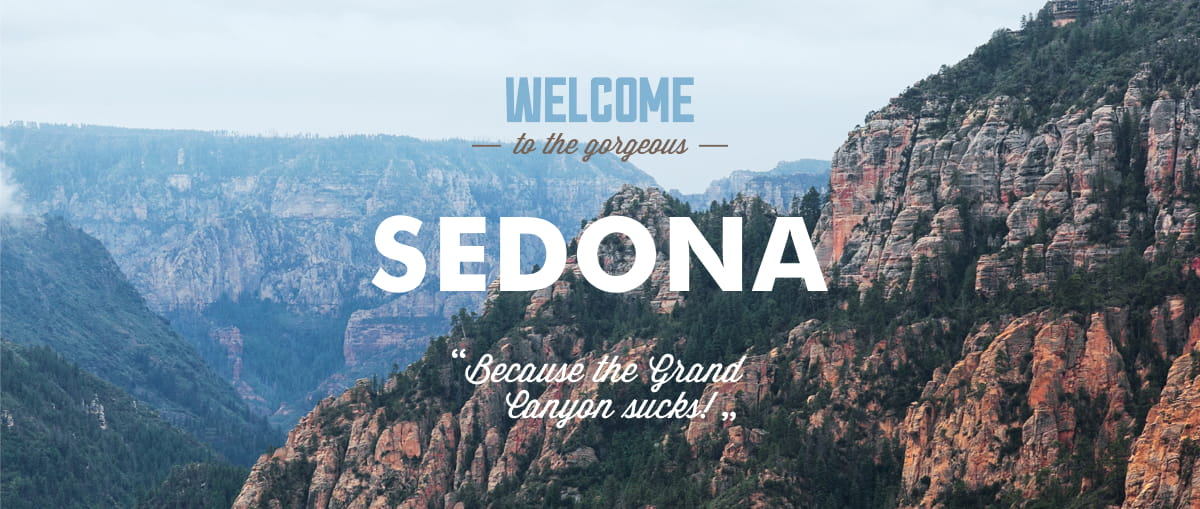
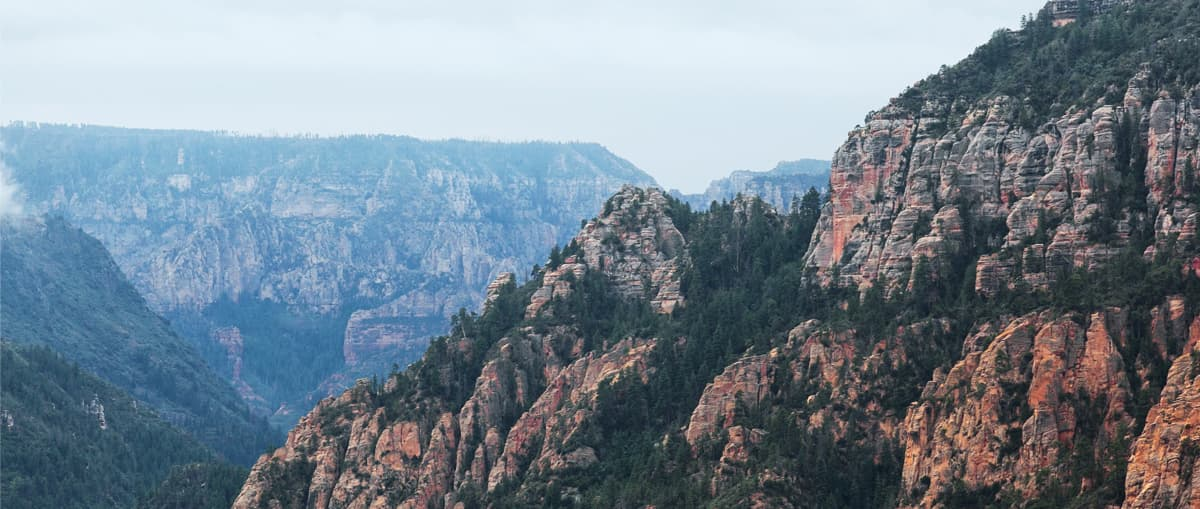
Доработка по замечаниям 6.12 сетка на флексах

Changed region(s): [[0.3083, 0.4126, 0.7092, 0.5894], [0.37, 0.6778, 0.6167, 0.8546], [0.4008, 0.1473, 0.5858, 0.3242]]

diff --git a/index.html b/index.html
@@ -40,11 +40,7 @@
 
     <section class="greeting">
       <h2 class="visually-hidden">Добро пожаловать в Седону</h2>
-      <img src="img/welcome.jpg" alt="Скалы Седоны лучше Великого Каньона" width="1200" height="509">
-      <div class="pattern-1"></div>
-      <div class="pattern-2"></div>
-      <div class="pattern-3"></div>
-      <div class="pattern-4"></div>
+      <img src="img/welcome-text.svg" class="welcome-image" alt="Скалы Седоны лучше Великого Каньона" width="457" height="351">
     </section>
 
     <section class="features">
@@ -58,7 +54,7 @@
         <li class="feature-item-with-details">
           <div class="feature-item-main feature-item-main-left">
             <div class="feature-item">
-              <h3>Настоящий городок</h3>
+              <h3 class="feature-item-header">Настоящий городок</h3>
               <span class="feature-item-number">— №1 —</span>
               <p class="feature-item-info">Седона - не аттракцион для туристов, там течёт своя жизнь</p>
             </div>
@@ -66,39 +62,39 @@
           </div>
           <ul class="feature-details-list">
             <li class="feature-item feature-detail-item">
-              <h3 class="feature-detail-item-header-1">Жильё</h3>
+              <h3 class="feature-item-header feature-detail-item-header feature-detail-item-header-house">Жильё</h3>
               <p class="feature-detail-item-info">Рекомендуем пожить в настоящем мотеле, всё как в кино!</p>
             </li>
             <li class="feature-item feature-detail-item">
-              <h3 class="feature-detail-item-header-2">Еда</h3>
+              <h3 class="feature-item-header feature-detail-item-header feature-detail-item-header-food">Еда</h3>
               <p class="feature-detail-item-info">Всегда заказывайте фирменный бургер, вы не разочаруетесь!</p>
             </li>
             <li class="feature-item feature-detail-item">
-              <h3 class="feature-detail-item-header-3">Сувениры</h3>
+              <h3 class="feature-item-header feature-detail-item-header feature-detail-item-header-gift">Сувениры</h3>
               <p class="feature-detail-item-info">Не только китайского, но и местного производства!</p>
             </li>
           </ul>
         </li>
         <li class="feature-item-main feature-item-main-right">
           <div class="feature-item">
-            <h3>Там есть Мост дьявола</h3>
+            <h3 class="feature-item-header">Там есть Мост дьявола</h3>
             <span class="feature-item-number">— №2 —</span>
             <p class="feature-item-info">Да, по нему можно пройти! Если конечно вы осмелитесь</p>
           </div>
           <img src="img/sedona-bridge.jpg" alt="Седонский мост" width="800" height="256">
         </li>
         <li class="feature-item feature-item-secondary">
-          <h3>Небольшая площадь</h3>
+          <h3 class="feature-item-header">Небольшая площадь</h3>
           <span class="feature-item-number">— №3 —</span>
           <p class="feature-item-secondary-info">Все достопримечательности находятся очень близко</p>
         </li>
         <li class="feature-item feature-item-secondary">
-          <h3>Красивая дорога</h3>
+          <h3 class="feature-item-header">Красивая дорога</h3>
           <span class="feature-item-number">— №4 —</span>
           <p class="feature-item-secondary-info">Ехать в Седону из Лас-Вегаса совсем не скучно!</p>
         </li>
         <li class="feature-item feature-item-secondary">
-          <h3>Мало туристов</h3>
+          <h3 class="feature-item-header">Мало туристов</h3>
           <span class="feature-item-number">— №5 —</span>
           <p class="feature-item-secondary-info">Большинство едет в Гранд Каньон и толпится там</p>
         </li>
@@ -112,7 +108,7 @@
       <button type="button" class="button button-main-search">Поиск гостиницы в седоне</button>
     </section>
 
-    <section class="search visually-hidden">
+    <section class="search">
       <h2 class="visually-hidden">Форма поиска гостиницы в Седоне</h2>
       <form class="search-form" action="#" method="get">
         <p class="search-item">

diff --git a/css/style.css b/css/style.css
@@ -189,76 +189,23 @@ img {
 /* Greeting */
 
 .greeting {
-  position: relative;
   margin-top: -23px;
+  position: relative;
   height: 509px;
+  background-image:
+    url("../img/welcome-pattern.svg"),
+    url("../img/welcome.jpg");
+  background-repeat: no-repeat;
+  background-position-y: bottom;
 }
 
-.pattern-1 {
-  position: absolute;
-  bottom: 0;
-  height: 57px;
-  width: 600px;
-}
-
-.pattern-1::before {
-  content: '';
+.welcome-image {
   position: absolute;
   top: 0;
   left: 0;
-  border-top: 57px solid transparent;
-  border-left: 600px solid white;
-}
-
-.pattern-2 {
-  position: absolute;
-  left: 250px;
-  bottom: 0;
-  height: 57px;
-  width: 350px;
-}
-
-.pattern-2::before {
-  content: '';
-  position: absolute;
-  top: 0;
-  left: 0;
-  border-top: 57px solid transparent;
-  border-left: 350px solid white;
-}
-
-.pattern-3 {
-  position: absolute;
-  left: 600px;
-  bottom: 0;
-  height: 57px;
-  width: 350px;
-}
-
-.pattern-3::before {
-  content: '';
-  position: absolute;
-  top: 0;
-  left: 0;
-  border-top: 57px solid transparent;
-  border-right: 350px solid white;
-}
-
-.pattern-4 {
-  position: absolute;
-  left: 600px;
-  bottom: 0;
-  height: 57px;
-  width: 600px;
-}
-
-.pattern-4::before {
-  content: '';
-  position: absolute;
-  top: 0;
-  left: 0;
-  border-top: 57px solid transparent;
-  border-right: 600px solid white;
+  right: 0;
+  bottom: 4px;
+  margin: auto;
 }
 
 /* Features */
@@ -298,7 +245,7 @@ img {
   text-align: center;
 }
 
-.feature-item h3 {
+.feature-item-header {
   width: 149px;
   font-size: 21px;
   line-height: 21px;
@@ -401,54 +348,33 @@ img {
   min-height: 43px;
 }
 
-.feature-detail-item-header-1::before {
-  content: '';
-  width: 72px;
-  height: 72px;
-  margin-top: 10px;
-  margin-bottom: 30px;
-  background-image: url("../img/icons/house.svg");
-  background-repeat: no-repeat;
-}
-
-.feature-detail-item-header-1 {
+.feature-detail-item-header {
   display: flex;
   flex-direction: column;
   align-items: center;
 }
 
-.feature-detail-item-header-2::before {
+.feature-detail-item-header::before {
   content: '';
   width: 72px;
   height: 72px;
   margin-top: 10px;
   margin-bottom: 30px;
+  background-repeat: no-repeat;
+}
+
+.feature-detail-item-header-house::before {
+  background-image: url("../img/icons/house.svg");
+}
+
+.feature-detail-item-header-food::before {
   background-image: url("../img/icons/food.svg");
   background-size: 70px 72px;
-  background-repeat: no-repeat;
 }
 
-.feature-detail-item-header-2 {
-  display: flex;
-  flex-direction: column;
-  align-items: center;
-}
-
-.feature-detail-item-header-3::before {
-  content: '';
-  width: 72px;
-  height: 72px;
-  margin-top: 10px;
-  margin-bottom: 30px;
+.feature-detail-item-header-gift::before {
   background-image: url("../img/icons/gift.svg");
   background-size: 66px 72px;
-  background-repeat: no-repeat;
-}
-
-.feature-detail-item-header-3 {
-  display: flex;
-  flex-direction: column;
-  align-items: center;
 }
 
 /* Hotel search */
